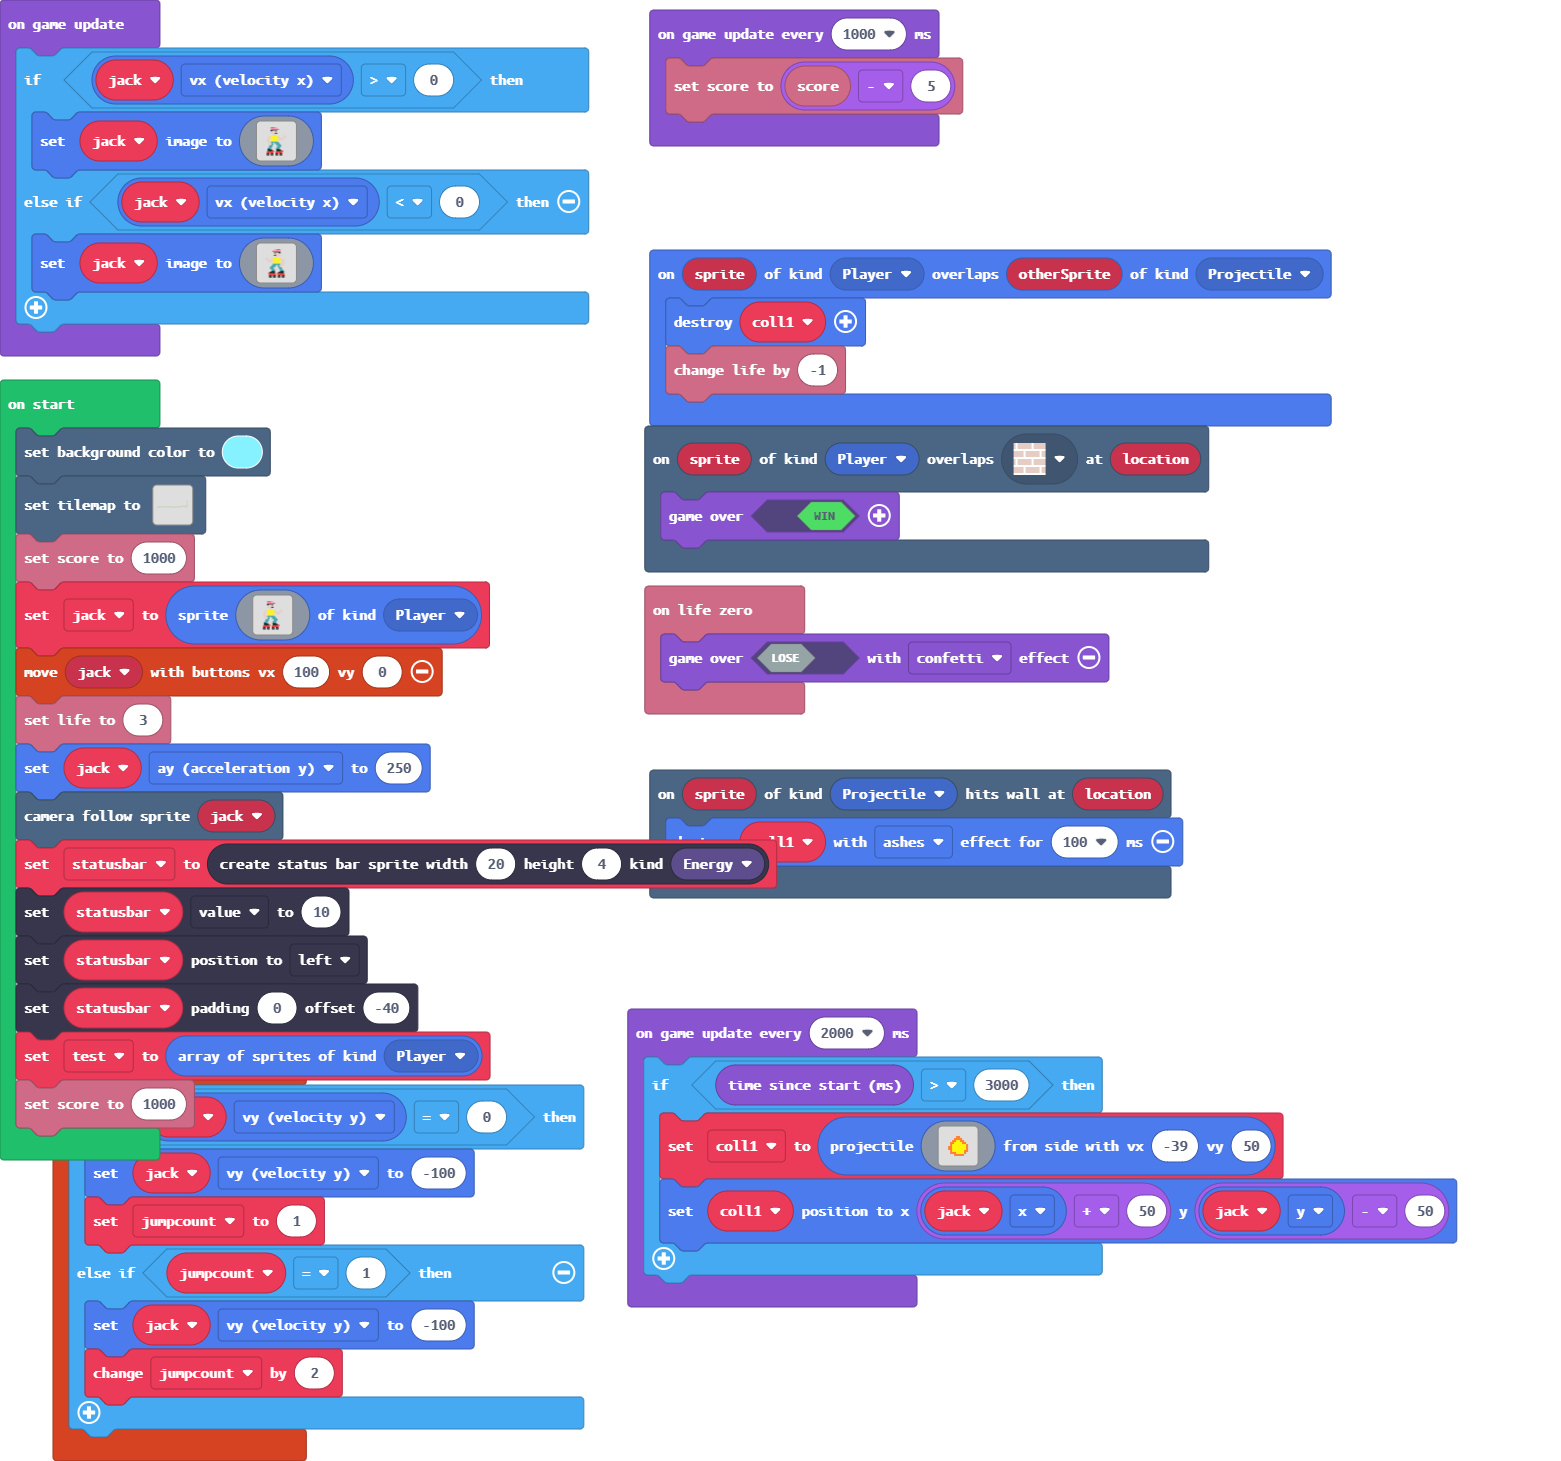
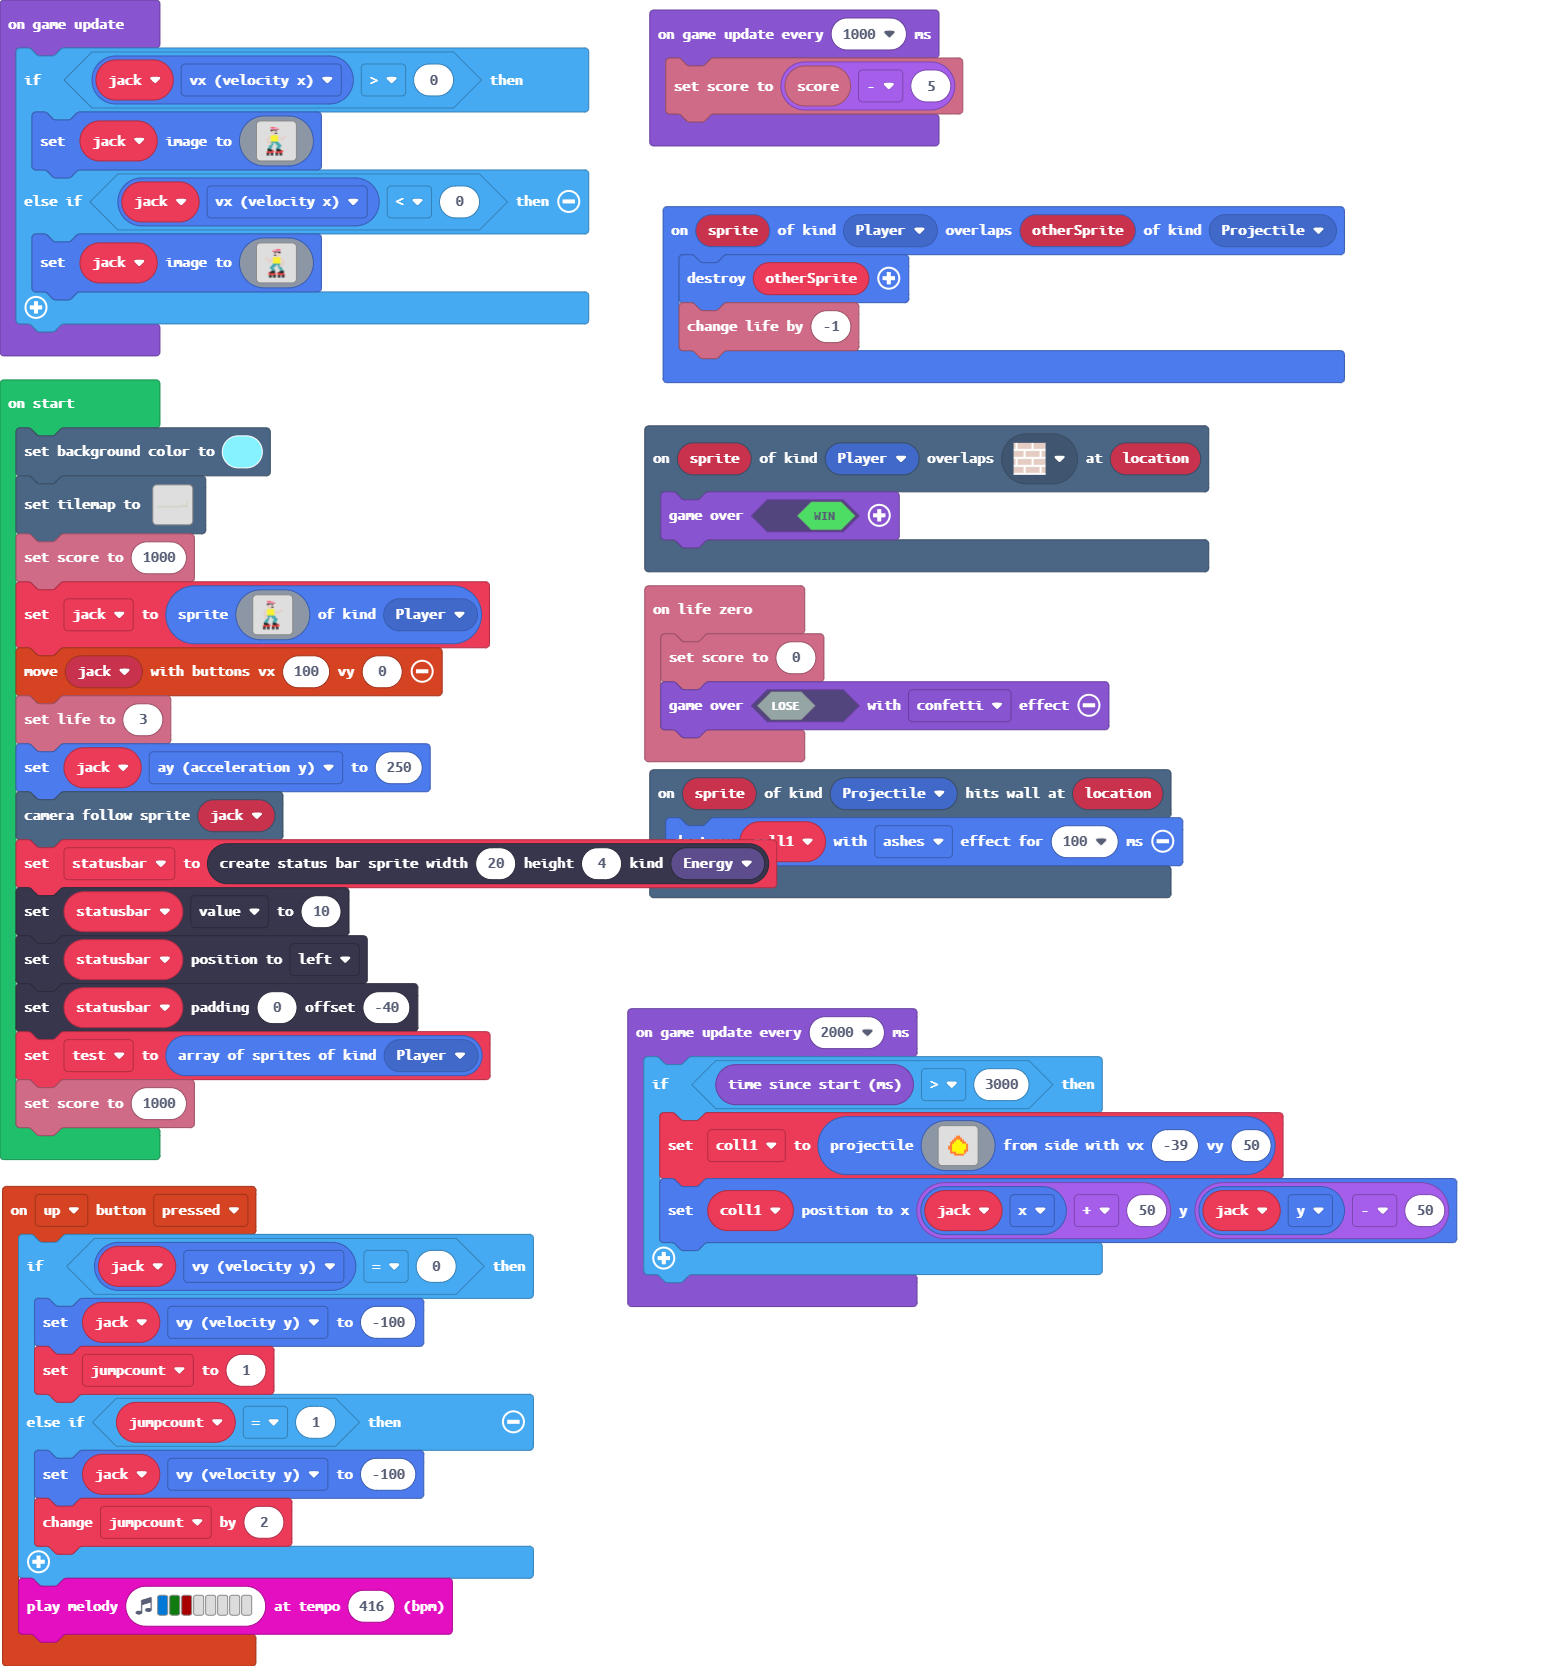
Update main.blocks, main.ts

diff --git a/main.ts b/main.ts
@@ -6,15 +6,17 @@ controller.up.onEvent(ControllerButtonEvent.Pressed, function () {
         jack.vy = -100
         jumpcount += 2
     }
+    music.playMelody("E G C5 - - - - - ", 416)
 })
 scene.onOverlapTile(SpriteKind.Player, sprites.builtin.brick, function (sprite, location) {
     game.over(true)
 })
 sprites.onOverlap(SpriteKind.Player, SpriteKind.Projectile, function (sprite, otherSprite) {
-    coll1.destroy()
+    otherSprite.destroy()
     info.changeLifeBy(-1)
 })
 info.onLifeZero(function () {
+    info.setScore(0)
     game.over(false, effects.confetti)
 })
 scene.onHitWall(SpriteKind.Projectile, function (sprite, location) {
